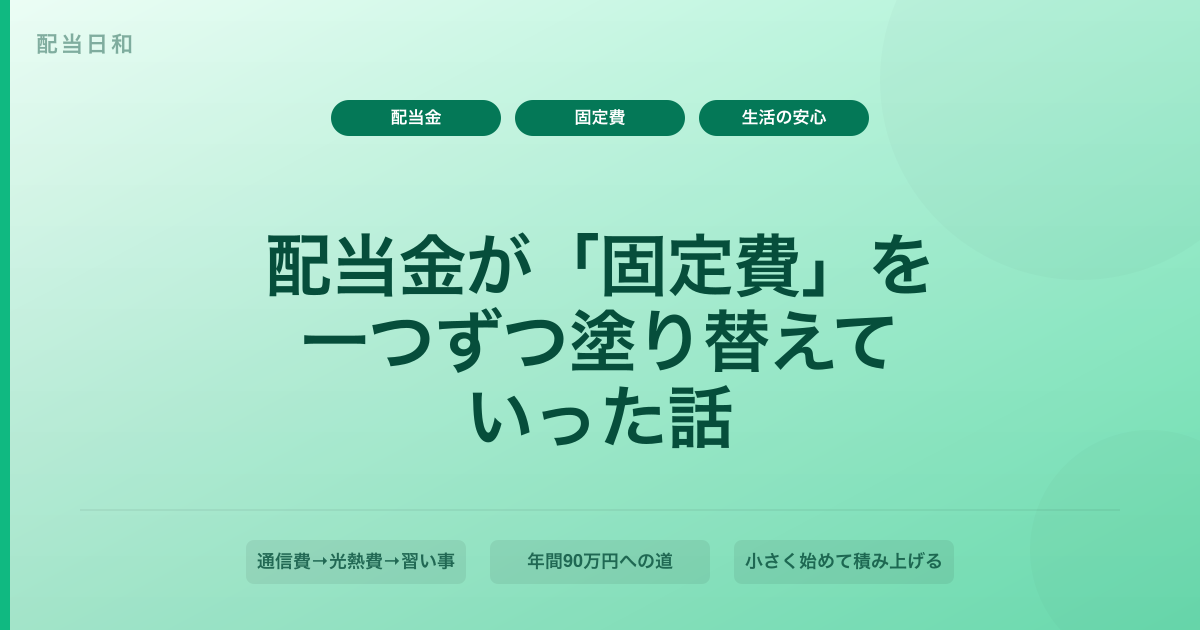
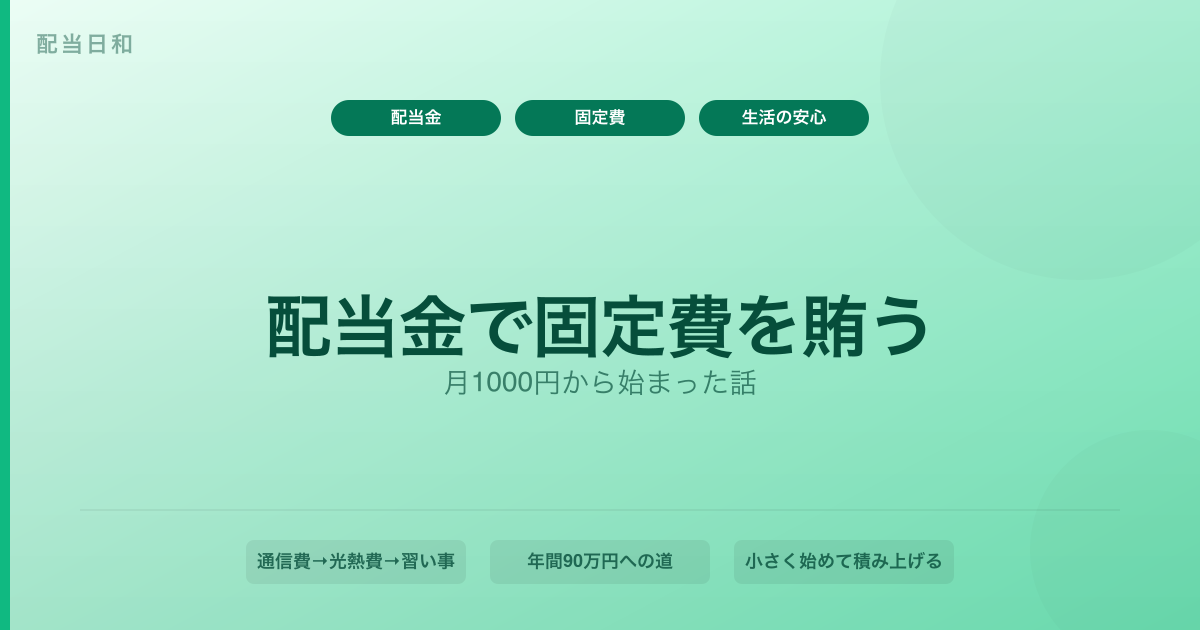
タイトル修正：配当金で固定費を賄う——月1000円から始まった話
アイキャッチ画像も新タイトルに合わせて再生成。

Changed region(s): [[0.2158, 0.3619, 0.7708, 0.7238]]

diff --git a/src/content/blog/dividend-covers-fixed-costs.md b/src/content/blog/dividend-covers-fixed-costs.md
@@ -1,5 +1,5 @@
 ---
-title: '配当金が「固定費」を一つずつ塗り替えていった話'
+title: '配当金で固定費を賄う——月1000円から始まった話'
 description: '最初の配当金は年間1万円。月1000円で通信費が賄えた日から、年90万円で固定費の多くを賄えるまでの話を正直に書きます。小さく始めても、意味はあります。'
 pubDate: '2026-04-26'
 slug: dividend-covers-fixed-costs
